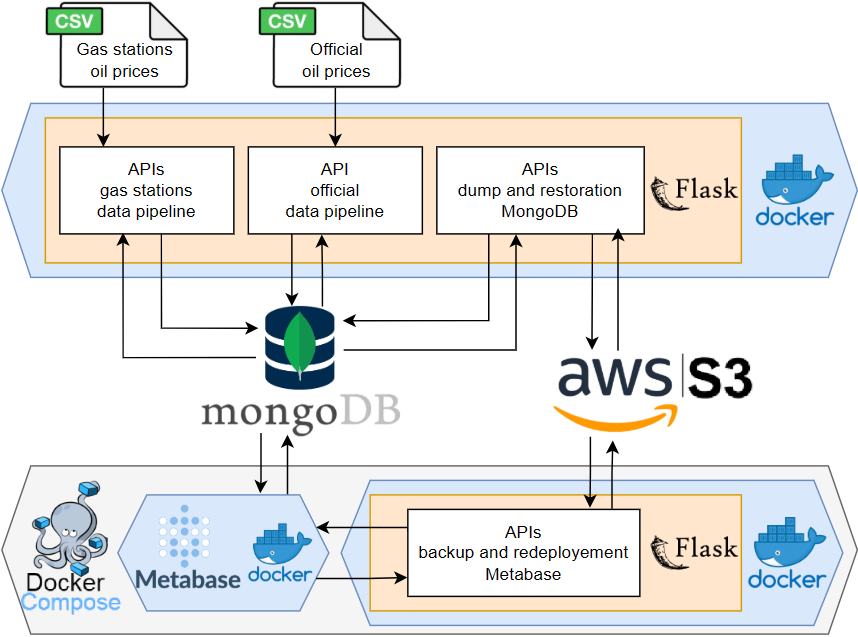
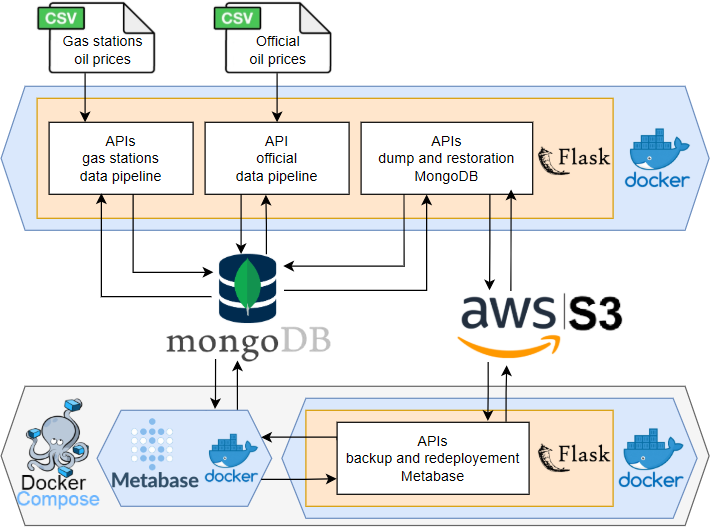
reorganise documentations for project_etl

Changed region(s): [[0.0, 0.0, 1.0, 1.0], [0.0, 0.3036, 0.0309, 0.3947]]

diff --git a/project_ETL/_documentation/Datasources.md b/project_ETL/_documentation/Datasources.md
@@ -1,0 +1,54 @@
+# DataSources
+This section provides an explanation of each data source used in the project.
+
+## Gas Station Data
+This dataset contains minute-by-minute records of fuel price changes from French gas stations.  
+
+You can find the official documentation here:  
+https://www.prix-carburants.gouv.fr/rubrique/opendata/
+
+In this project, the data is retrieved via the following endpoint:
+https://donnees.roulez-eco.fr/opendata/annee/{year}
+
+Example for the year 2008:  
+[https://donnees.roulez-eco.fr/opendata/annee/2008](https://donnees.roulez-eco.fr/opendata/annee/2008)
+
+### Data Details
+- **Format:** XML (one file per year)  
+- **Available years:** 2007 → present  
+- **Fuel types included:**  
+  - Gazole  
+  - SP95  
+  - SP98  
+  - E10  
+  - E85  
+  - GPLc  
+- **Unit:** Euros per liter (€/L)  
+- **Taxes:** All prices include VAT (TTC)
+
+
+## Official Government Data
+This dataset represents **denormalized monthly average fuel prices** calculated by the French government.  
+
+The dataset can be accessed here:  
+https://www.ecologie.gouv.fr/politiques-publiques/prix-produits-petroliers
+
+To access the data, you need to fill out the form **'Base de données des prix des carburants et combustibles en France: Démarrer'**. 
+
+Submitting the form provides a **dynamic URL** to download the CSV file.  
+
+Example of a dynamic URL:  
+[https://www.ecologie.gouv.fr/simulator-energies/monitoring/export/edda41d9d3219ffaa0300e846b92aff1b36aa81a](https://www.ecologie.gouv.fr/simulator-energies/monitoring/export/edda41d9d3219ffaa0300e846b92aff1b36aa81a)
+
+### Data Details
+- **Format:** CSV (single file containing all available years)  
+- **Available years:** 1985 → present  
+- **Fuel types included:**  
+  - Gazole  
+  - SP95  
+  - SP98  
+  - E10  
+  - E85  
+  - GPLc  
+- **Unit:** Euros per liter (€/L)  
+- **Taxes:** All prices include VAT (TTC)

diff --git a/project_ETL/README.md b/project_ETL/README.md
@@ -4,6 +4,9 @@
 
 This part of the project is responsible for performing all ETLs (Extract, Transform, Load) transformations.
 
+## Global Architecture
+![Schema Infrastructure](./_documentation/assets/schema_architecture_ETL.png)
+
 ## Prerequisites
 * **MongoDB** installed and running
 * [**MongoDB Command Line Database Tools**](https://www.mongodb.com/try/download/database-tools) installed
@@ -60,18 +63,24 @@ docker run -d -p 5000:5000 --name project_etl project_etl
 
 ## Recommended Tools & Documentation
 
+### ➡ Data Sources
+- **Gas Station & Official Government Data**  
+  Comprehensive explanations of each dataset, formats, and usage:  
+  [Datasources.md](_documentation/Datasources.md)
+
 ### ➡ API Resources
 - **Postman Collection**  
-  Import the Project_master_ETL.postman_collection.json file into Postman for a ready-to-use set of API requests.
+  Import the [Project_ETL.postman_collection.json](Project_ETL.postman_collection.json) file into Postman for a ready-to-use set of API requests.
 
 - **API Documentation**  
-  Detailed explanations, parameters, and usage examples of all ETL APIs and their endpoints:  
-  [ETL API Documentation](doc_api.md)
+  Detailed explanations, parameters, and usage examples of all APIs and their endpoints:  
+  [API_Documentation.md](_documentation/API_Documentation.md)
 
-### ➡ Functions & Data Architecture
-- **ETL Pipelines & MongoDB Structure**  
+### ➡ Functions & MongoDB Architecture
+- **Pipelines functions & MongoDB Structure**  
   Full architecture of the ETL functions and MongoDB collections:  
-  [API and Functions Architecture](API_and_ETL_Architecture.md)
+  [Functions_And_MongoDB_Architecture.md](_documentation/Functions_And_MongoDB_Architecture.md)
+
 
 ### ➡ Technical Documentation
 - **ETL & Data Visualization**  

diff --git a/project_ETL/_documentation/API_Documentation.md b/project_ETL/_documentation/API_Documentation.md
@@ -1,5 +1,5 @@
-# project_master_etl FLASK APIs
-This Flask repository is an ETL pipeline to extract, transform, and load oil prices from gas stations and official government reports, then format the data and make it available for comparison to extract business KPIs.
+# project_ETL FLASK APIs Documentation
+This Flask repository is an ETL pipeline to extract, transform, and load oil prices from gas stations and official government, then format the data and make it available for comparison.
 
 **The Postman API import is available in the root folder.**
 

diff --git a/README.md b/README.md
@@ -15,7 +15,7 @@ This project processes **56 million records** of **oil prices changes** from Fre
 - **Selenium** (web scraping and automation for government data)
 
 ## Global Architecture
-![Schema Infrastructure](./_documentation/assets/schema_architecture3.png)
+![Schema Infrastructure](./_documentation/assets/schema_architecture.png)
 
 ## Data Pipelines
 A **daily Flask server** orchestrates two ETL pipelines feeding **MongoDB**:

diff --git a/project_ETL/_documentation/Functions_And_MongoDB_Architecture.md b/project_ETL/_documentation/Functions_And_MongoDB_Architecture.md
@@ -1,6 +1,6 @@
-# API and Functions Architecture
+# Functions And MongoDB Architecture
 
-## ETL APIs and functions
+## Architecture of Functions and APIs
 
 - /etl/launch_complete_pipeline_oils_prices
   - /etl/launch_etl_gas_stations_oils_prices
